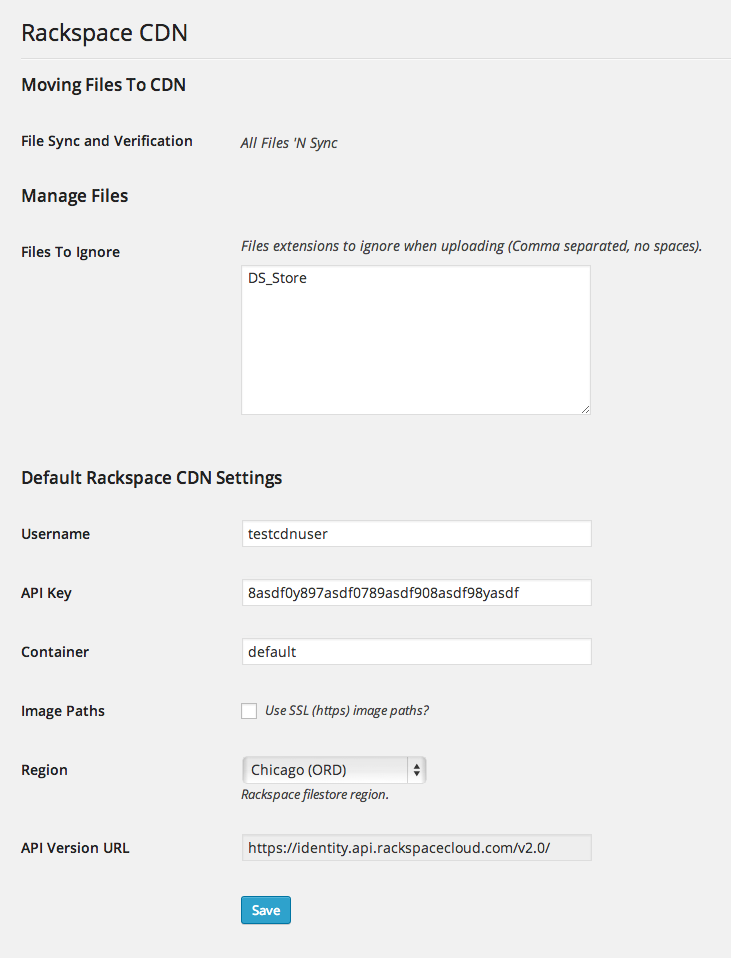
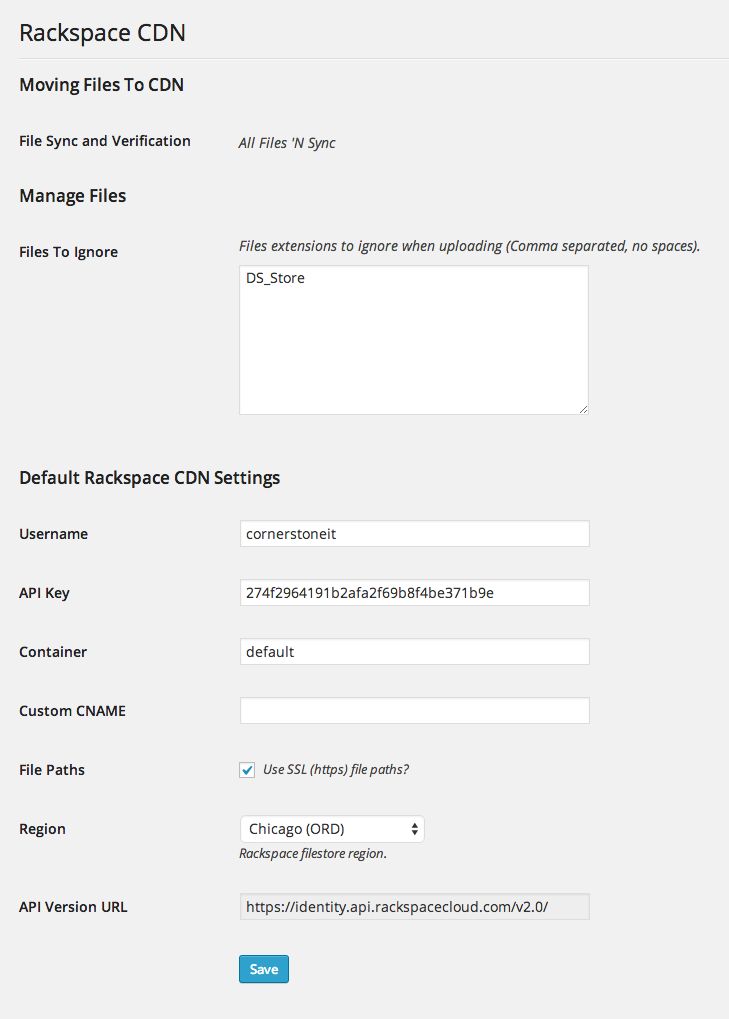
Bug fixes and other changes.
git-svn-id: http://plugins.svn.wordpress.org/rackspace-cloud-files-cdn@930414 b8457f37-d9ea-0310-8a92-e5e31aec5664

diff --git a/trunk/assets/js/admin.js b/trunk/assets/js/admin.js
@@ -95,6 +95,20 @@ $rs_cdn(document).ready(function() {
 		$rs_cdn(this).removeAttr('disabled');
 		$rs_cdn(this).html('Synchronize');
 	});
+
+	// Check if custon CNAME is blank or not, set SSL accordingly
+	var rs_cdn_has_custom_cname = $rs_cdn('#rs_cdn_use_ssl').attr('checked');
+	$rs_cdn('#rs_cdn_custom_cname').keyup(function() {
+		if ($rs_cdn(this).val().length > 0) {
+			$rs_cdn('#rs_cdn_use_ssl').attr('disabled','disabled');
+			$rs_cdn('#rs_cdn_use_ssl').removeAttr('checked');
+		} else {
+			$rs_cdn('#rs_cdn_use_ssl').removeAttr('disabled');
+			if (rs_cdn_has_custom_cname) {
+				$rs_cdn('#rs_cdn_use_ssl').attr('checked','checked');
+			}
+		}
+	});
 });
 
 // Retry uploading attachment

diff --git a/trunk/admin/manage.php b/trunk/admin/manage.php
@@ -1,8 +1,4 @@
 <?php
-	// Global CDN variable
-	// global $rs_cdn;
-	// $rs_cdn = (isset($_SESSION['cdn'])) ? $_SESSION['cdn'] : new RS_CDN();
-
 	// Start session, if not started
 	if( !session_id() )
 		session_start();
@@ -13,7 +9,9 @@
 	$_SESSION['cdn_settings'] = $_SESSION['cdn']->api_settings;
 
 	// Save CDN settings
-	save_cdn_settings();
+	if (isset($_POST['save_cdn_settings'])) {
+		save_cdn_settings();
+	}
 	$settings_error = false;
 
 	// Get files and counts
@@ -42,7 +40,7 @@
 				$settings_error = true;
 		?>
 			<div id="setting-error-settings_updated" class="error settings-error"> 
-				<p><strong>Ruh-Roh!</strong><br />Your settings are busted. Please verify and make sure you have the correct credentials.</p>
+				<p><strong>Ruh-Roh!</strong><br /><?php echo isset($local_files['message']) ? $local_files['message'] : 'Your settings are busted. Please verify and make sure you have the correct credentials.' ?></p>
 			</div>
 		<?php
 			} else {
@@ -81,8 +79,30 @@
 			</table>
 		</div>
 		<h3<?php echo ($settings_error == true) ? ' style="display:none;"' : '' ?>>Manage Files</h3>
+		<?php
+			/* $files_to_upload = array();
+			$upload_dir = wp_upload_dir();
+			$files = $_SESSION['cdn']->container_object()->objectList();
+			while ($file = $files->next()) {
+			    // $upload_dir['basedir'].'/'
+			    if (!in_array('needle', $files_to_upload)) {
+			    	$files_to_upload[] = array('file_name' => $file->name, 'file_size' => $file->bytes);
+			    }
+			}
+			echo '<pre>'.print_r($local_files, true).'</pre>';
+			echo '<STRONG>********** '.count($files_to_upload).' FILES **********</STRONG>'; */
+		?>
 		<table class="form-table"<?php echo ($settings_error == true) ? ' style="display:none;"' : '' ?>>
 			<tbody>
+				<!-- <tr valign="top">
+					<th scope="row">
+						<label for="rs_cdn[use_ssl]">Remove Local Files</label>
+					</th>
+					<td>
+						<input type="checkbox" name="rs_cdn[remove_local_files]" value="true" <?php echo (isset($_SESSION['cdn_settings']['remove_local_files']) && $_SESSION['cdn_settings']['remove_local_files'] == true) ? 'checked': '' ?>> 
+						<span class="description">Remove files from local server when uploaded to CDN?</span>
+					</td>
+				</tr> -->
 				<tr valign="top">
 					<th scope="row">
 						<label>Files To Ignore</label>
@@ -127,16 +147,16 @@
 						<label for="rs_cdn[custom_cname]">Custom CNAME</label>
 					</th>
 					<td>
-						<input name="rs_cdn[custom_cname]" type="text" value="<?php echo $_SESSION['cdn_settings']['custom_cname'];?>" class="regular-text" />
+						<input name="rs_cdn[custom_cname]" id="rs_cdn_custom_cname" type="text" value="<?php echo $_SESSION['cdn_settings']['custom_cname'];?>" class="regular-text" />
 					</td>
 				</tr>
 				<tr valign="top">
 					<th scope="row">
-						<label for="rs_cdn[use_ssl]">Image Paths</label>
+						<label for="rs_cdn[use_ssl]">File Paths</label>
 					</th>
 					<td>
-						<input type="checkbox" name="rs_cdn[use_ssl]" value="true" <?php echo (isset($_SESSION['cdn_settings']['use_ssl']) && $_SESSION['cdn_settings']['use_ssl'] == true) ? 'checked': '' ?><?php echo (isset($_SESSION['cdn_settings']['custom_cname']) && trim($_SESSION['cdn_settings']['custom_cname']) != '') ? ' disabled' : '' ?>> 
-						<span class="description">Use SSL (https) image paths?</span>
+						<input type="checkbox" name="rs_cdn[use_ssl]" id="rs_cdn_use_ssl" value="true" <?php echo (isset($_SESSION['cdn_settings']['use_ssl']) && $_SESSION['cdn_settings']['use_ssl'] == true) ? 'checked': '' ?><?php echo (isset($_SESSION['cdn_settings']['custom_cname']) && trim($_SESSION['cdn_settings']['custom_cname']) != '') ? ' disabled' : '' ?>> 
+						<span class="description">Use SSL (https) file paths?</span>
 					</td>
 				</tr>
 				<tr valign="top">

diff --git a/trunk/lib/functions.php b/trunk/lib/functions.php
@@ -36,7 +36,7 @@ function upload_images($meta_id, $post_id, $meta_key='', $meta_value=''){
 		// Upload files
 		foreach ($files_to_upload as $cur_file) {
 			// Set file name
-			$file_name = trim($upload_dir['subdir'], '/').'/'.basename($cur_file);
+			$file_name = trim(str_replace($upload_dir['basedir'], '', $cur_file), '/');
 
 			// Upload file to CDN, add to file check
 			try {
@@ -47,8 +47,10 @@ function upload_images($meta_id, $post_id, $meta_key='', $meta_value=''){
 				die();
 			}
 
-			// Delete file when successfully uploaded
-			@unlink($cur_file);
+			// Delete file when successfully uploaded, if set
+			// if (isset($_SESSION['cdn_settings']['remove_local_files'])) {
+				@unlink($cur_file);
+			// }
 		}
     }
 }
@@ -182,9 +184,11 @@ function upload_existing_file() {
 	}
 
 	// Verify file was successfully uploaded
-	if (verify_successful_upload($file_to_upload) == true) {
-		@unlink($file_to_upload);
-	}
+	// if (isset($_SESSION['cdn_settings']['remove_local_files'])) {
+		if (verify_successful_upload($file_to_upload) == true) {
+			@unlink($file_to_upload);
+		}
+	// }
 
 	// Let the browser know upload was successful
 	echo json_encode(array('response' => 'success', 'file_path', $file_to_upload));
@@ -257,6 +261,11 @@ function load_files_needing_upload() {
 	// Get uploads directory
 	$upload_dir = wp_upload_dir();
 	$dir = $upload_dir['basedir'];
+
+	// If uploads directory is not found, tell the user to create it
+	if (!is_dir($dir)) {
+		return array('response' => 'error', 'message' => 'Directory "'.$dir.'" not found. Please create it.');
+	}
 
 	// Setup directory iterator
 	$files = new RecursiveIteratorIterator(

diff --git a/trunk/rackspace-cdn.php b/trunk/rackspace-cdn.php
@@ -3,14 +3,10 @@
 Plugin Name: Rackspace CDN
 Plugin URI: http://www.paypromedia.com/
 Description: This plugin stores WordPress media files on, and delivers them from, the Rackspace CDN.
-Version: 0.0.6
+Version: 0.0.7
 Contributors: bstump
 Author URI: http://www.paypromedia.com/individuals/bobbie-stump/
 License: GPLv2
-
-Thanks to richardroyal for the original idea. I used only a very small portion of his code, but
-rewrote the entire plugin to be more stable and easier to use, as well as cleaned up some files
-that were not being used.
 */
 
 defined('WP_PLUGIN_URL') or die('Restricted access');
@@ -19,7 +15,6 @@ global $wpdb;
 
 define('RS_CDN_PATH', ABSPATH.PLUGINDIR.'/rackspace-cloud-files-cdn/');
 define('RS_CDN_URL', WP_PLUGIN_URL.'/rackspace-cloud-files-cdn/');
-define('RS_CDN_ROUTE', get_bloginfo('url').'/?rs_cdn_routing=');
 define('RS_CDN_OPTIONS', "wp_rs_cdn_settings" );
 define('RS_CDN_LOADIND_URL', WP_PLUGIN_URL.'/rackspace-cloud-files-cdn/assets/images/loading.gif');
 
@@ -54,22 +49,8 @@ register_activation_hook( __FILE__, 'rscdn_install' );
  *  Register and enqueue admin JavaScript
  */
 function rs_cdn_admin_js() {
-	wp_enqueue_script('jquery');
-	wp_enqueue_media();
-	wp_enqueue_style('thickbox');
 	wp_enqueue_script('media-upload');
-	wp_enqueue_script('thickbox');
 	wp_enqueue_script('admin-js', RS_CDN_URL.'assets/js/admin.js');
 }
 add_action('admin_enqueue_scripts', 'rs_cdn_admin_js');
-
-
-/**
- *  Plugin routing
- */
-function rs_cdn_parse_query_vars($vars) {
-	$vars[] = 'rs_cdn_routing';
-	return $vars;
-}
-add_filter('query_vars', 'rs_cdn_parse_query_vars');
 ?>

diff --git a/trunk/admin/functions.php b/trunk/admin/functions.php
@@ -23,18 +23,34 @@ function rs_cdn_admin_pages() {
  */
 function save_cdn_settings() {
 	if (is_admin() && current_user_can('manage_options') && !empty($_POST) && !empty($_POST['rs_cdn'])) {
+
 		// Turn off SSL if custom CNAME is being used
 		if (isset($_POST['rs_cdn']['custom_cname']) && trim($_POST['rs_cdn']['custom_cname']) != '') {
 			unset($_POST['rs_cdn']['use_ssl']);
-			$_SESSION['cdn_url'] = $_POST['rs_cdn']['custom_cname'];
 		} else {
 			unset($_POST['rs_cdn']['custom_cname']);
-			$_SESSION['cdn_url'] = (isset($_POST['rs_cdn']['use_ssl'])) ? $_SESSION['cdn']->container_object()->SSLURI() : $_SESSION['cdn']->container_object()->CDNURI();
 		}
 
-		// Save settings
+		// Save settings in database
 		$cdn_settings = $_POST['rs_cdn'];
 		update_option(RS_CDN_OPTIONS, $cdn_settings);
+
+		// Turn off SSL if custom CNAME is being used
+		if (isset($_POST['rs_cdn']['custom_cname']) && trim($_POST['rs_cdn']['custom_cname']) != '') {
+			$_SESSION['cdn_url'] = $_POST['rs_cdn']['custom_cname'];
+		} else {
+			try {
+				// Try to create new CDN url
+				$_SESSION['cdn'] = new RS_CDN();
+
+				// Try to set CDN URL for session
+				$_SESSION['cdn_url'] = (isset($_POST['rs_cdn']['use_ssl'])) ? $_SESSION['cdn']->container_object()->SSLURI() : $_SESSION['cdn']->container_object()->CDNURI();
+			} catch (Exception $exc) {
+				// Exception
+			}
+		}
+
+		// Set API settings to the new settings
 		$_SESSION['cdn_settings'] = $_SESSION['cdn']->api_settings = $cdn_settings;
 	}
 }
